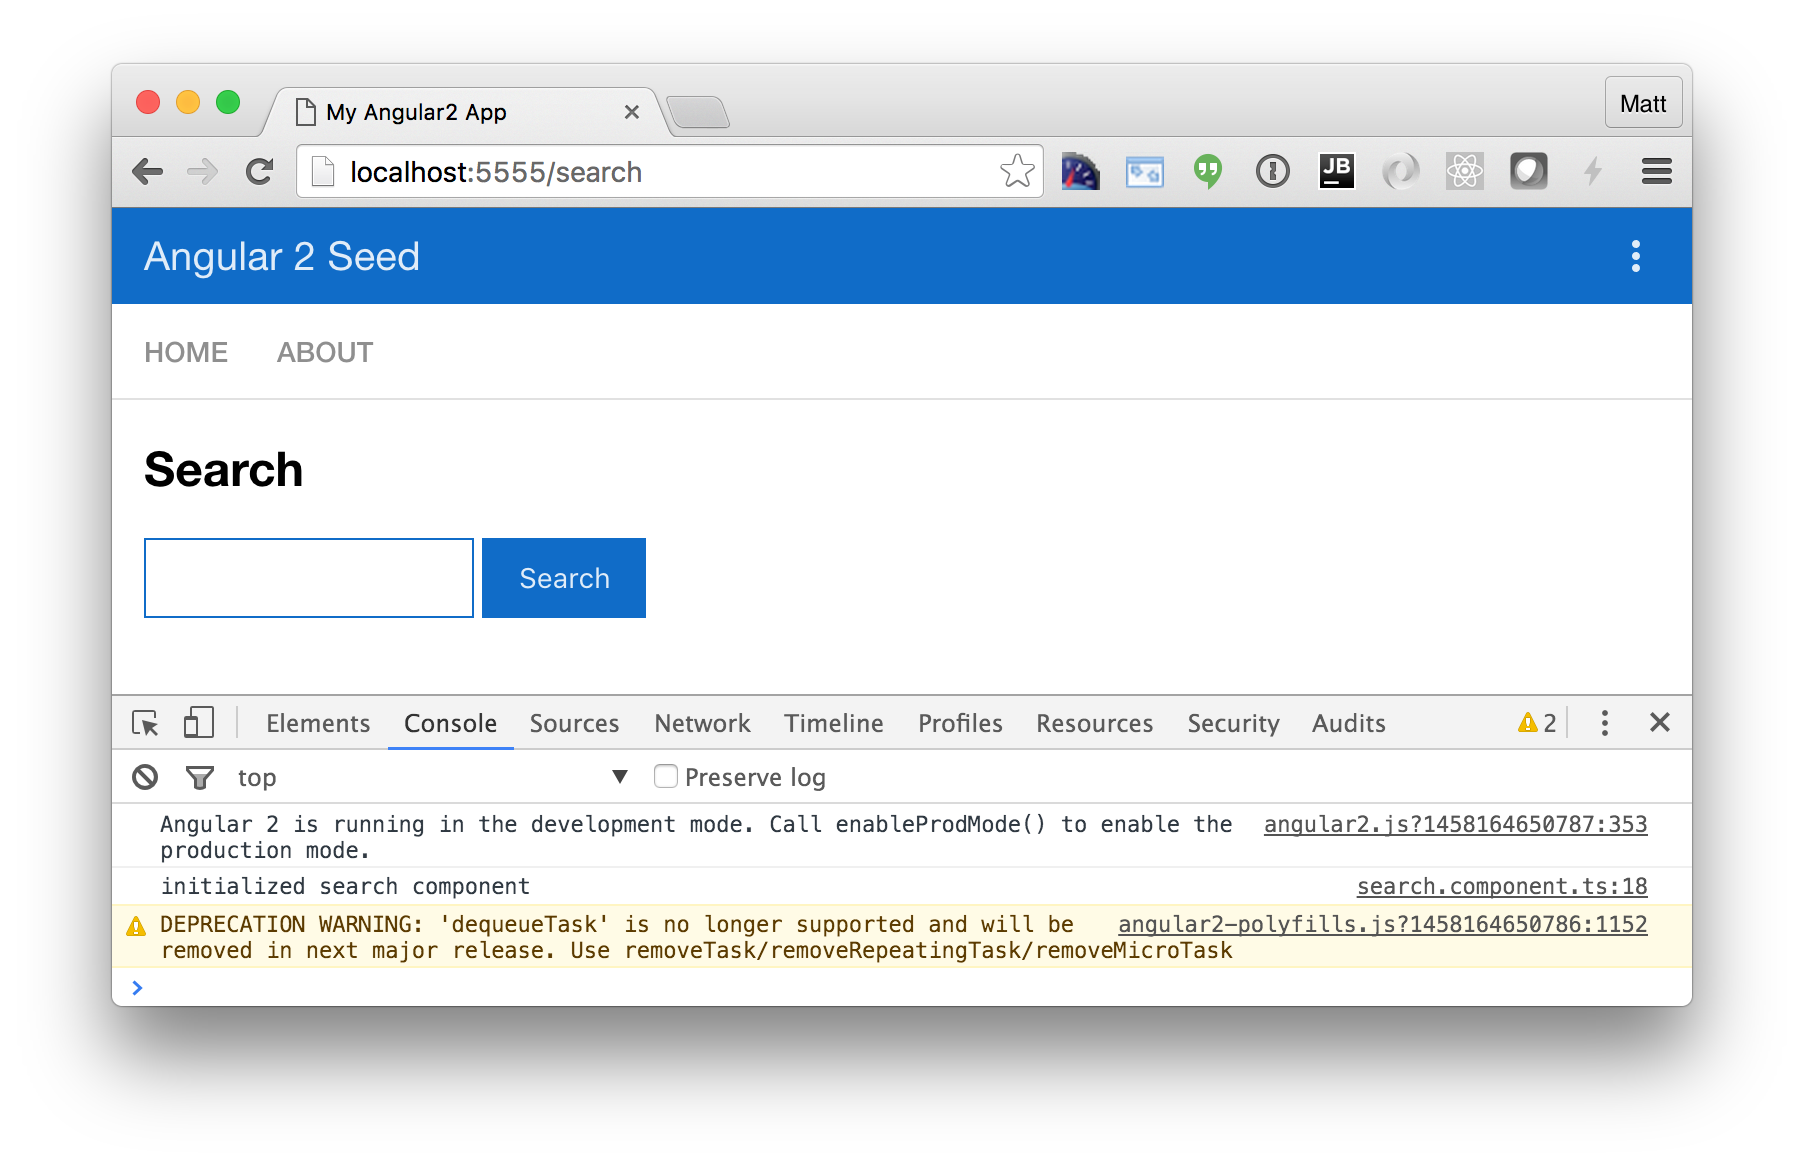
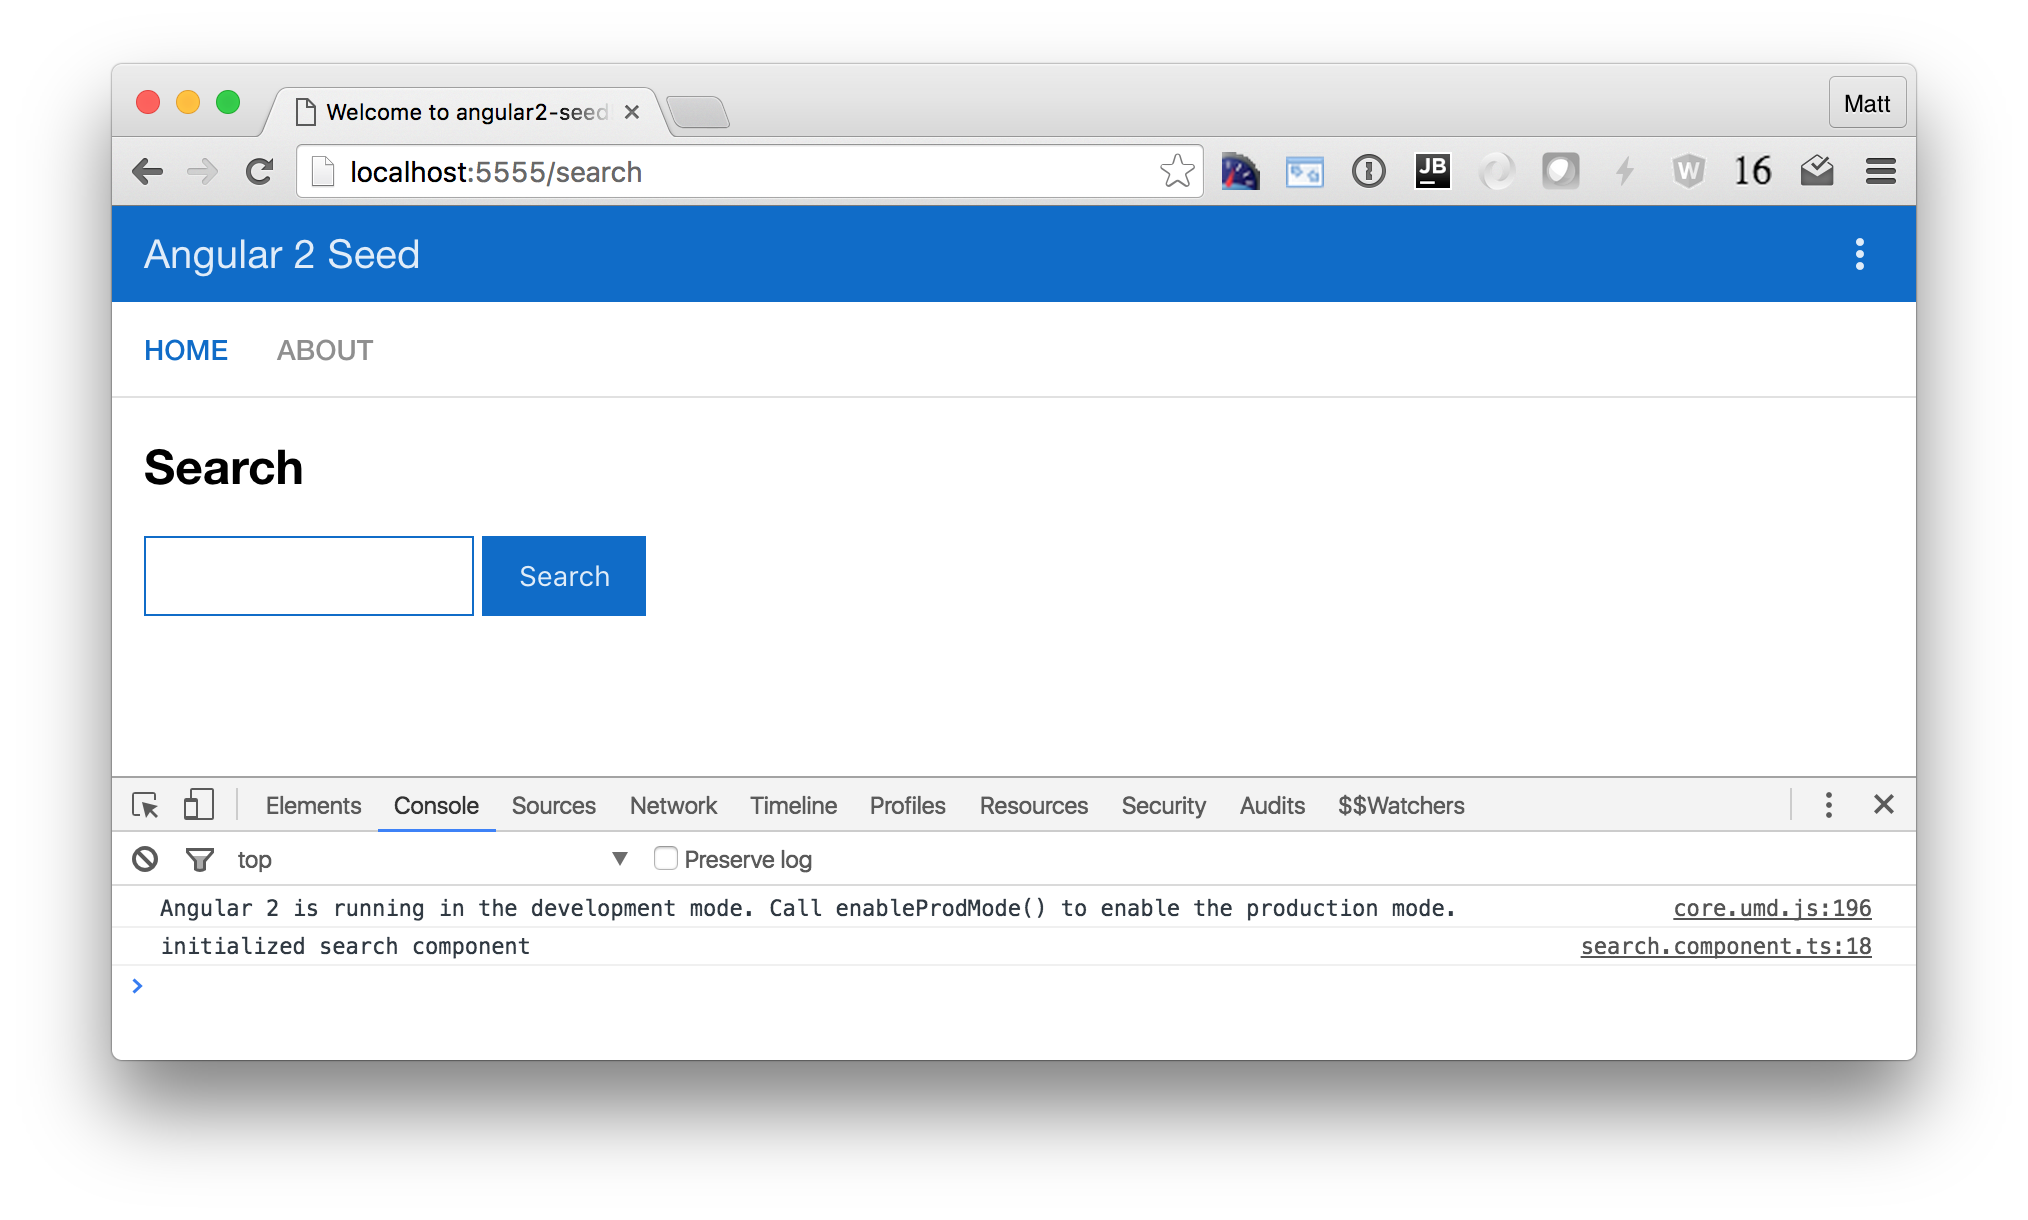
Fix issues found while doing 1st tutorial.

Changed region(s): [[0.031, 0.0617, 0.9623, 0.8954]]

diff --git a/src/client/app/main.ts b/src/client/app/main.ts
@@ -2,9 +2,7 @@ import { APP_BASE_HREF } from '@angular/common';
 import { enableProdMode, provide } from '@angular/core';
 import { bootstrap } from '@angular/platform-browser-dynamic';
 import { ROUTER_PROVIDERS } from '@angular/router';
-import { HTTP_PROVIDERS } from '@angular/http';
 import { AppComponent } from './app.component';
-import 'rxjs/add/operator/map';
 
 if ('<%= ENV %>' === 'prod') { enableProdMode(); }
 
@@ -13,7 +11,7 @@ if ('<%= ENV %>' === 'prod') { enableProdMode(); }
  * @see https://angular.io/docs/ts/latest/api/platform-browser-dynamic/index/bootstrap-function.html
  */
 bootstrap(AppComponent, [
-  HTTP_PROVIDERS, ROUTER_PROVIDERS,
+  ROUTER_PROVIDERS,
   provide(APP_BASE_HREF, { useValue: '<%= APP_BASE %>' })
 ]);
 

diff --git a/src/client/app/+edit/edit.component.ts b/src/client/app/+edit/edit.component.ts
@@ -1,5 +1,5 @@
 import { Component, OnInit } from '@angular/core';
-import { Person, Address, SearchService } from '../shared/search/search.service';
+import { Person, Address, SearchService } from '../shared/index';
 import { RouteSegment, Router } from '@angular/router';
 
 @Component({
